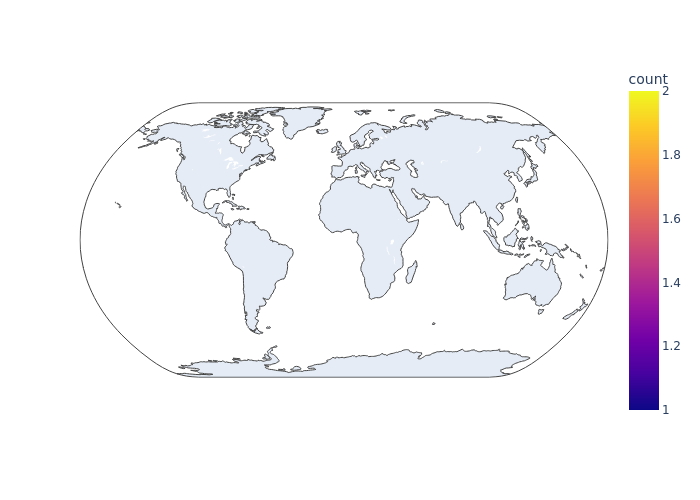
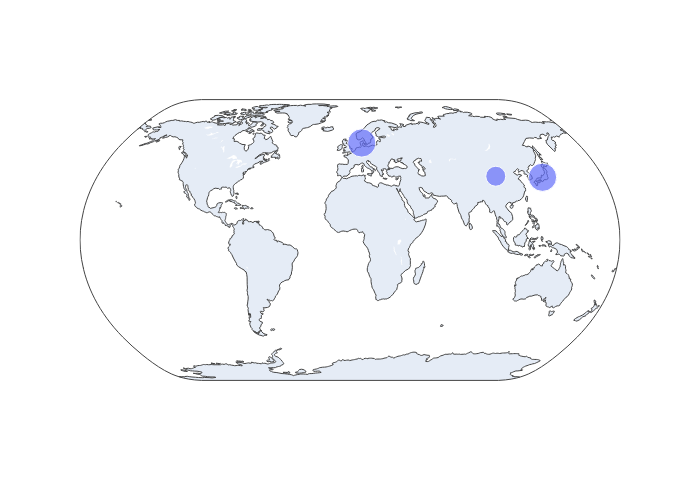
sara

diff --git a/report_generation_module.py b/report_generation_module.py
@@ -358,6 +358,18 @@ def library_layout_bar(user_session, e_df):
 #         # Return missing value
 #         return findGeocode(country) 
 
+def alpha3code(column):
+        CODE=[]
+        for country in column:
+            try:
+                code=pycountry.countries.get(name=country).alpha_3
+            # .alpha_3 means 3-letter country code 
+            # .alpha_2 means 2-letter country code
+                CODE.append(code)
+            except:
+                CODE.append('None')
+        return CODE
+
 def geography(user_session, e_df, p_df):
 
     country_list = []
@@ -372,40 +384,43 @@ def geography(user_session, e_df, p_df):
     for country in pycountry.countries:
         countries[country.name] = country.alpha_2
         codes = [countries.get(country, 'Unknown code') for country in country_list]
-
-    # country_df = pd.DataFrame(list(zip(country_list, countries)),
-    #            columns =['country', 'iso_alpha'])
-
-    # print(country_df)
-
-    # country_df = country_df.groupby(['country', 'iso_alpha']).size()
-    # print(country_df)
-
-    # country_list_unique = [*set(country_list)]
     
     input =  country_list
     c = Counter( input )
     print( c.items() )
 
     country_df = pd.DataFrame(c.items(), columns = ['country', 'count'])
-    print(country_df)
+
+    country_df['CODE']=alpha3code(country_df.country) #iso_3
+
+    fig = px.scatter_geo(country_df, locations="CODE",
+                     hover_name="country", size="count",
+                     projection="natural earth")
+    fig.write_image(os.path.join(user_session, "world_map.png"))
+    
+
+    
 
 
-    def alpha3code(column):
-        CODE=[]
-        for country in column:
-            try:
-                code=pycountry.countries.get(name=country).alpha_3
-            # .alpha_3 means 3-letter country code 
-            # .alpha_2 means 2-letter country code
-                CODE.append(code)
-            except:
-                CODE.append('None')
-        return CODE
+
+    # world = gpd.read_file(gpd.datasets.get_path('naturalearth_lowres'))
+    # world.columns=['pop_est', 'continent', 'name', 'CODE', 'gdp_md_est', 'geometry']
+    # merge=pd.merge(world,country_df,on='CODE')
+
+    # merge.plot(column='country', scheme="quantiles",
+    #        figsize=(25, 20),
+    #        legend=True,cmap='coolwarm')
+    # plt.title('2020 Jan-May Confirmed Case Amount in Different Countries',fontsize=25)
+    # # # add countries names and numbers 
+    # # for i in range(0,10):
+    # #     plt.text(float(merge.longitude[i]),float(merge.latitude[i]),"{}\n{}".format(merge.name[i],merge.Confirmed_Cases[i]),size=10)
+    # # plt.show()
+    # plt.write_image(os.path.join(user_session, "world_map.png"))
+
+    
     # create a column for code 
     
-    country_df['CODE']=alpha3code(country_df.Country_Region)
-    df.head()
+    
 
 
 
